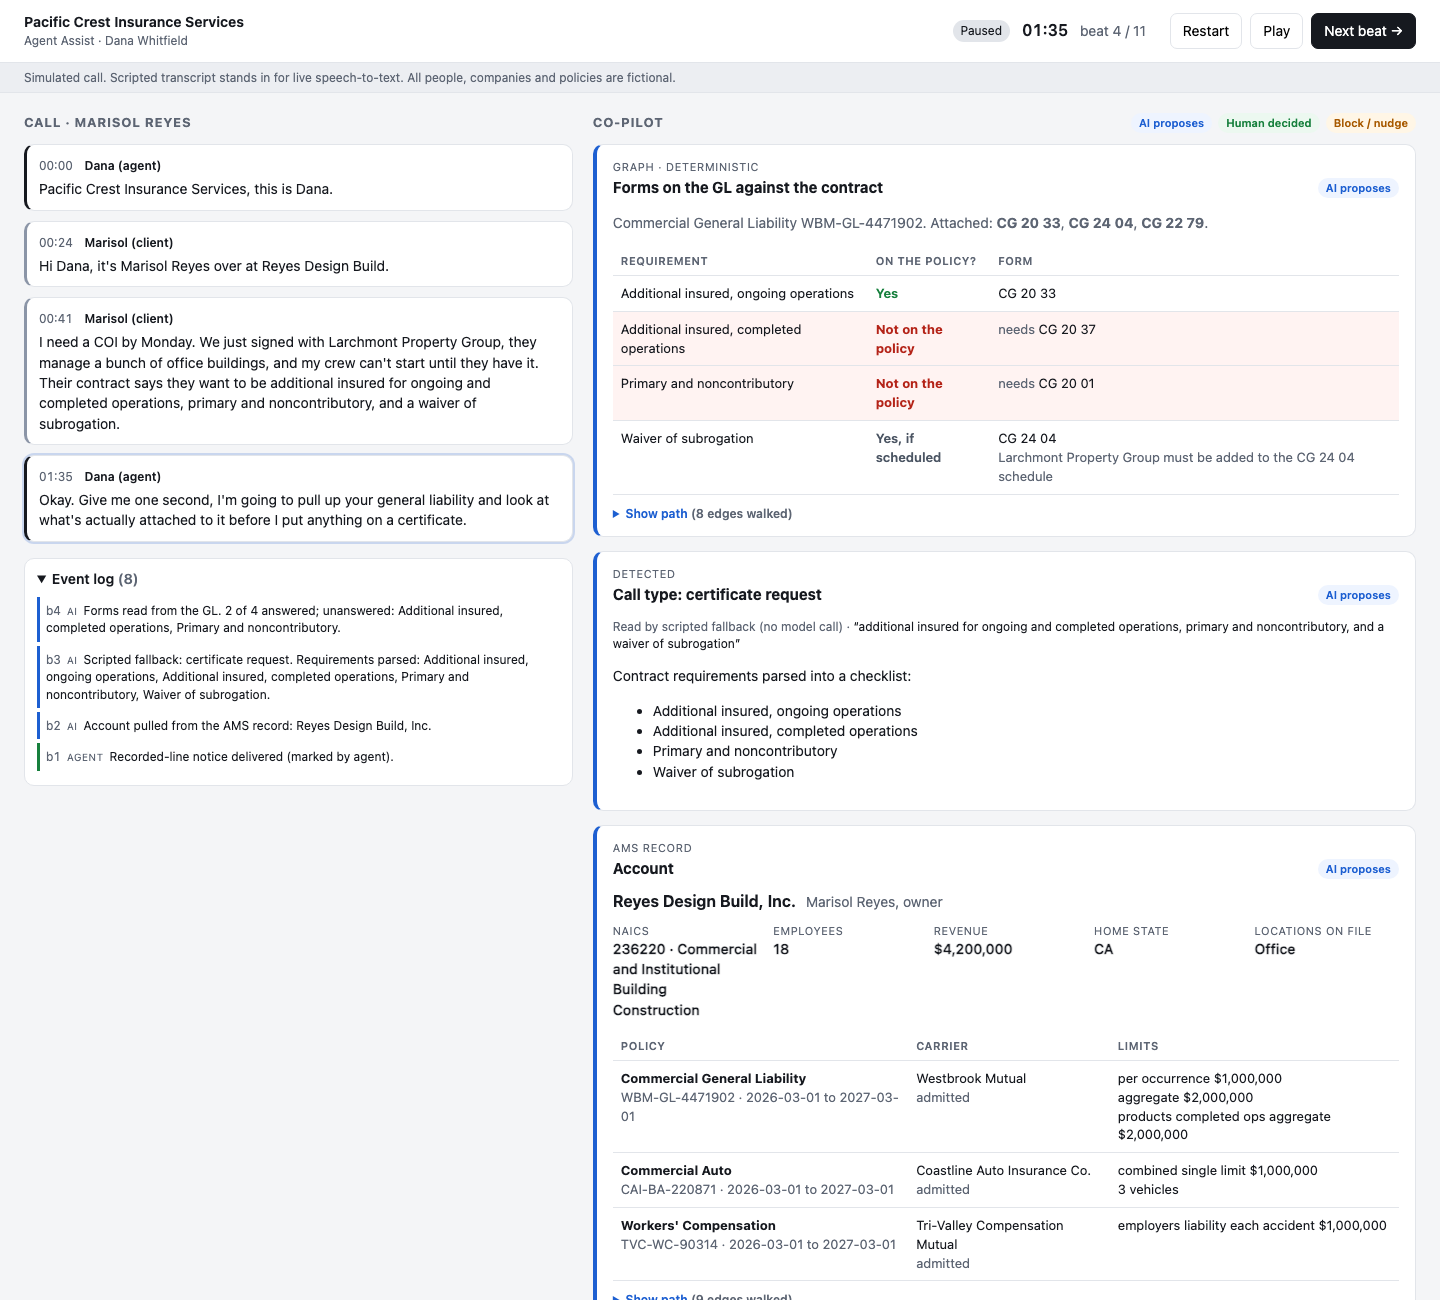
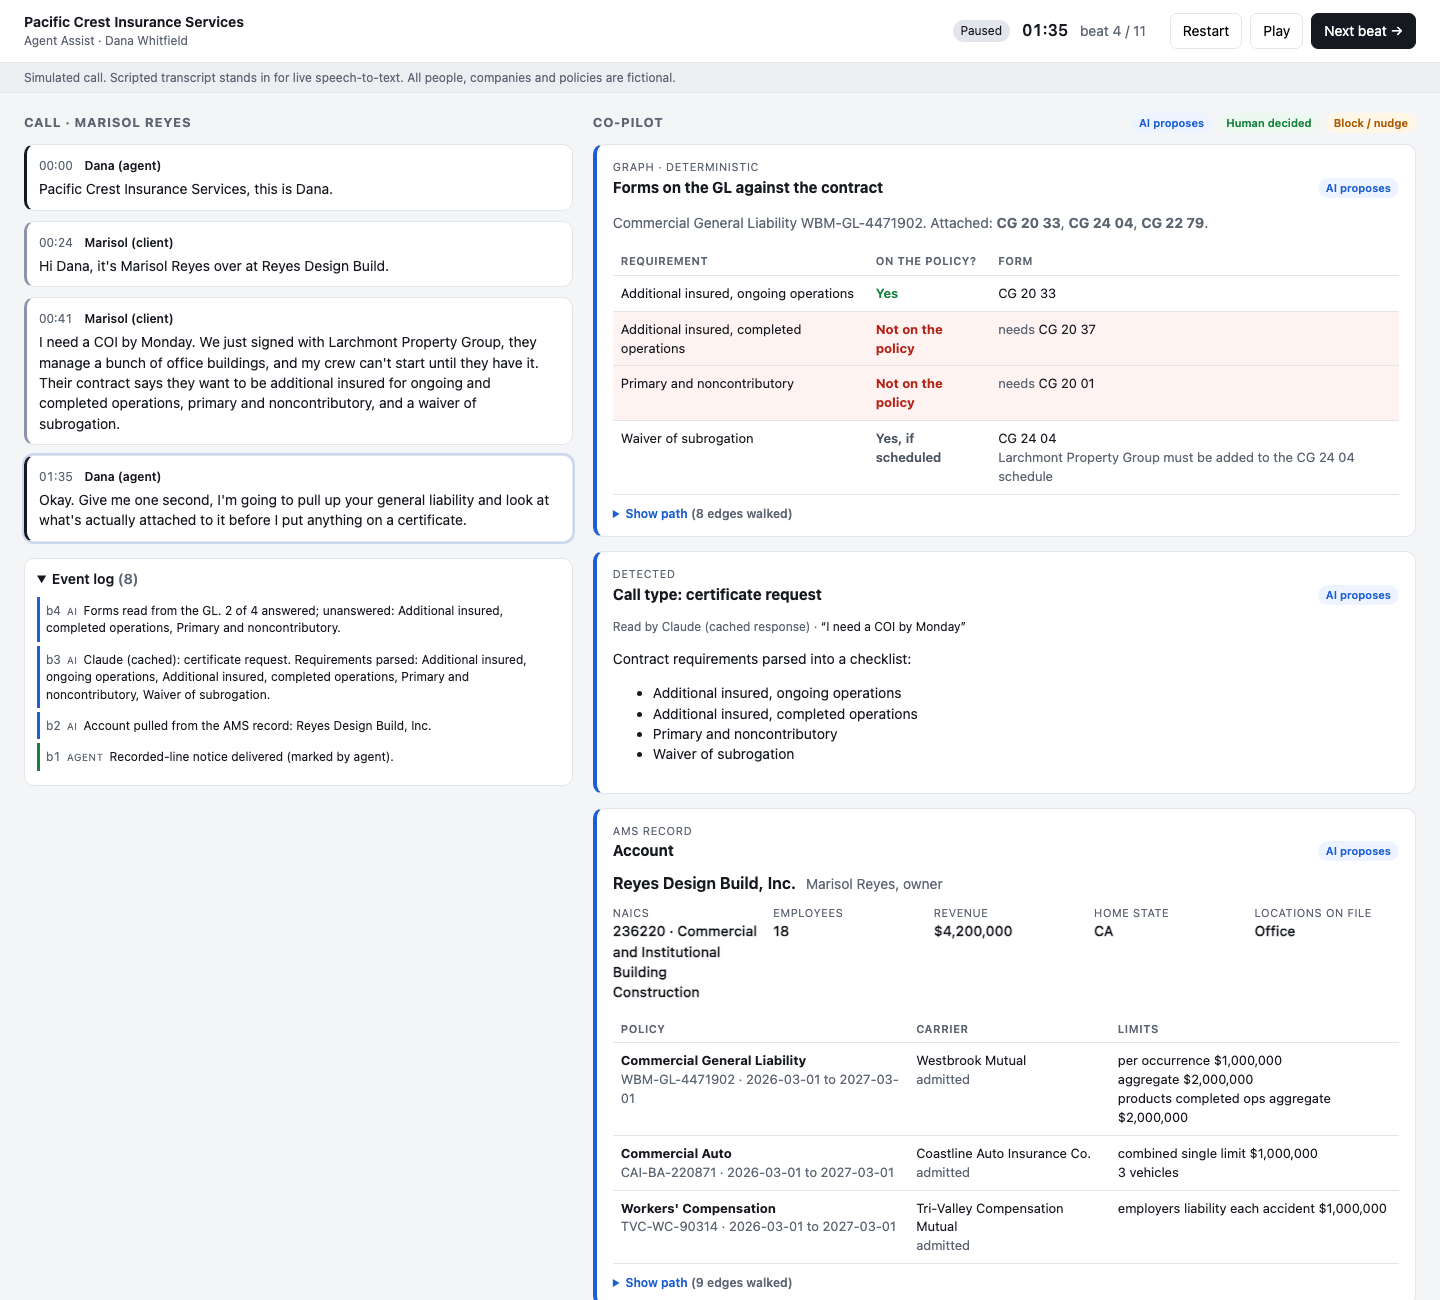
Record Claude detections for all eleven beats
The demo now replays real model reads from data/llm_cache instead of the
scripted fallback. Claude agreed with the script on intent, requirements
and exposures for every beat. It differed in two places: from beat 9 on it
calls the call type "endorsement", which the panel doesn't read past beat
3, and at beat 11 it reported the agent's "add the Vernon yard" as a new
location. Locations now count only on a location_change beat, the same
gate exposures already have, so the yard is observed once.

The app tests drop the API key so they replay the cache and never spend.
Screenshots retaken with the cached reads.

diff --git a/app/engine.py b/app/engine.py
@@ -49,6 +49,11 @@ def detection(state: dict, n: int) -> dict | None:
     return state["detections"].get(str(n))
 
 
+def new_locations(r: dict) -> list[dict]:
+    """Locations count as observed only on the beat that reports the change, not when the agent restates it at wrap."""
+    return r["locations"] if r["intent"] == "location_change" else []
+
+
 def world(state: dict) -> nx.MultiDiGraph:
     """The graph as it stands at this point in the call, observations included."""
     g = base_graph().copy()
@@ -56,7 +61,7 @@ def world(state: dict) -> nx.MultiDiGraph:
         d = detection(state, n)
         if not d:
             continue
-        for loc in d["result"]["locations"]:
+        for loc in new_locations(d["result"]):
             slug = re.sub(r"[^a-z0-9]+", "-", loc["name"].lower()).strip("-")
             kg.observe_location(g, client(), slug, loc["name"], since=loc["when"])
         if "exposure:professional-services" in d["result"]["exposures"] and d["result"]["intent"] == "operations_change":
@@ -99,7 +104,7 @@ def _log_beat(state: dict, beat: dict, d: dict) -> None:
         a = q.certificate_check(world(state), client(), contract())
         if not a.answer["can_issue"]:
             st.log(state, "ai", "amber", "block", "Certificate blocked: " + a.answer["reason"], path=a.path.edges)
-    for loc in r["locations"]:
+    for loc in new_locations(r):
         st.log(state, "ai", "blue", "detect", f"{who}: new location mentioned, {loc['name']} ({loc['when']}).", source=src)
     for exp in r["exposures"]:
         if r["intent"] == "operations_change":

diff --git a/tests/test_app.py b/tests/test_app.py
@@ -13,6 +13,7 @@ HX = {"HX-Request": "true"}
 @pytest.fixture()
 def client(tmp_path, monkeypatch):
     monkeypatch.setenv("CLSC_DB", str(tmp_path / "state.db"))
+    monkeypatch.delenv("ANTHROPIC_API_KEY", raising=False)  # tests replay the cache; they never spend
     from app.main import app
     c = TestClient(app)
     c.post("/restart", headers=HX)
